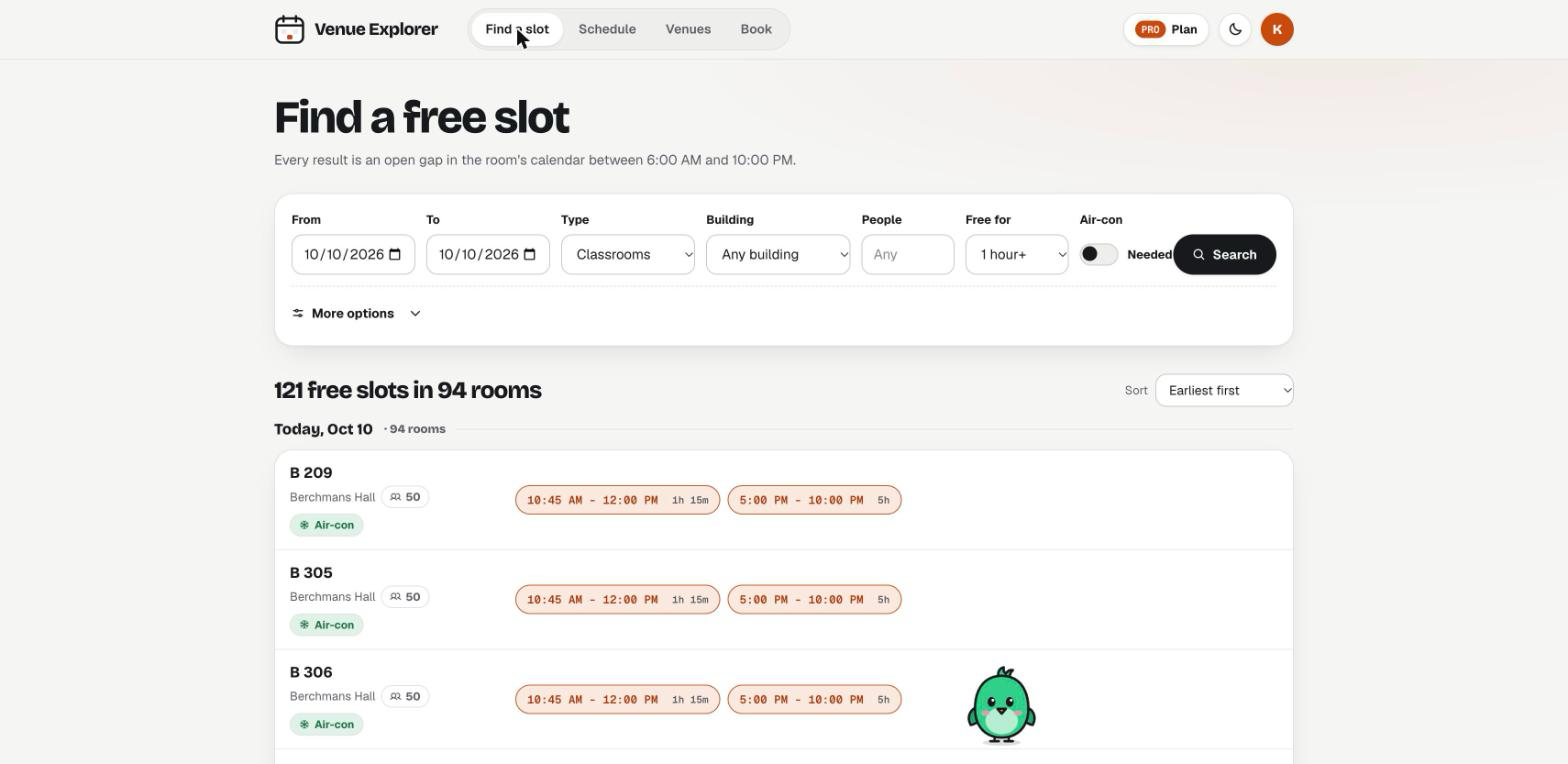
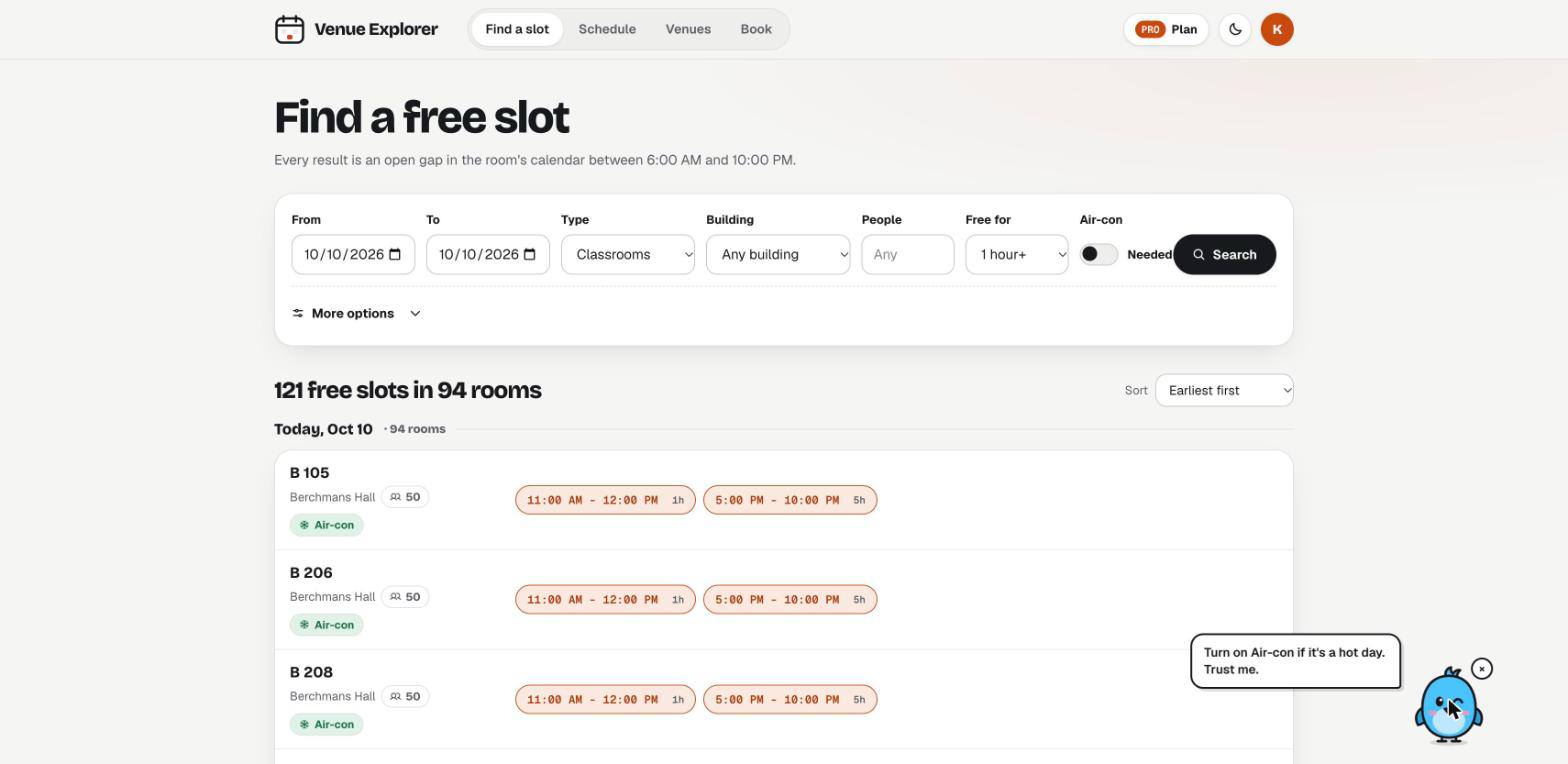
Agi: page tips, random chatter and nine new stunts; fresh README screenshots

diff --git a/apps-script/PortalMascot.html b/apps-script/PortalMascot.html
@@ -83,6 +83,28 @@
   .agi-bob.a-wave .agi-wing-r, .agi-bob.a-wave .agi-wing-l { animation: aWave 260ms ease-in-out 3 alternate; }
   .agi-bob.a-flap .agi-wing-r, .agi-bob.a-flap .agi-wing-l, .agi-bob.a-dance .agi-wing-r, .agi-bob.a-dance .agi-wing-l { animation: aWave 140ms ease-in-out 8 alternate; }
   .agi-bob.a-flap { animation: aFlap 1.1s ease-in-out; }
+  .agi-bob.a-hop3 { animation: aHop3 1.3s var(--ease); }
+  .agi-bob.a-fly { animation: aFly 2.6s ease-in-out; }
+  .agi-bob.a-fall { animation: aFall 1.4s cubic-bezier(.5,0,.75,0) both; }
+  .agi-bob.a-backflip { animation: aBackflip 1s var(--ease); }
+  .agi-bob.a-moonwalk { animation: aMoonwalk 2.2s ease-in-out; }
+  .agi-bob.a-bounce { animation: aBounce 1.6s linear; }
+  .agi-bob.a-peck { animation: aPeck 1.2s ease-in-out; }
+  .agi-bob.a-zoom { animation: aZoom 1.6s ease-in-out; }
+  .agi-bob.a-float { animation: aFloat 3s ease-in-out; }
+  .agi-bob.a-fly .agi-wing-r, .agi-bob.a-fly .agi-wing-l, .agi-bob.a-float .agi-wing-r, .agi-bob.a-float .agi-wing-l,
+  .agi-bob.a-fall .agi-wing-r, .agi-bob.a-fall .agi-wing-l { animation: aWave 110ms ease-in-out 20 alternate; }
+  .agi-bob.a-moonwalk .agi-leg, .agi-bob.a-zoom .agi-leg { animation: aStep 180ms ease-in-out 10 alternate; }
+  @keyframes aStep { from { transform: rotate(-18deg); } to { transform: rotate(18deg); } }
+  @keyframes aHop3 { 0%, 33%, 66%, 100% { transform: none; } 12% { transform: translate(-10px, -16px); } 45% { transform: translate(-20px, -20px) rotate(-6deg); } 78% { transform: translate(-6px, -12px); } 90% { transform: scale(1.08, .92); } }
+  @keyframes aFly { 0% { transform: none; } 15% { transform: translateY(6px) scale(1.06, .9); } 35% { transform: translate(-30px, -110px) rotate(-12deg); } 55% { transform: translate(20px, -140px) rotate(10deg); } 75% { transform: translate(-6px, -60px) rotate(-4deg); } 92% { transform: translateY(0) scale(1.1, .88); } 100% { transform: none; } }
+  @keyframes aFall { 0% { transform: translateY(-240px) rotate(-30deg); opacity: 0; } 8% { opacity: 1; } 60% { transform: translateY(0) rotate(8deg) scale(1.2, .75); } 72% { transform: translateY(-26px) rotate(-6deg); } 84% { transform: translateY(0) scale(1.08, .9); } 100% { transform: none; } }
+  @keyframes aBackflip { 0% { transform: none; } 20% { transform: scale(1.08, .88); } 60% { transform: translateY(-50px) rotate(-360deg); } 82% { transform: translateY(0) rotate(-360deg) scale(1.08, .9); } 100% { transform: rotate(-360deg); } }
+  @keyframes aMoonwalk { 0%, 100% { transform: none; } 45%, 55% { transform: translateX(46px) rotate(-4deg); } }
+  @keyframes aBounce { 0%, 100% { transform: none; } 10%, 40%, 70% { transform: scale(1.12, .86); } 25% { transform: translateY(-34px); } 55% { transform: translateY(-22px); } 85% { transform: translateY(-10px); } }
+  @keyframes aPeck { 0%, 100% { transform: none; } 15%, 45%, 75% { transform: rotate(32deg) translate(6px, 6px); } 30%, 60%, 90% { transform: rotate(4deg); } }
+  @keyframes aZoom { 0%, 100% { transform: none; } 20% { transform: translateX(-60px) skewX(10deg); } 40% { transform: translateX(30px) skewX(-10deg) scaleX(-1); } 60% { transform: translateX(-40px) skewX(8deg); } 80% { transform: translateX(16px) scaleX(-1); } }
+  @keyframes aFloat { 0% { transform: none; } 25% { transform: scale(1.3, 1.25); } 60% { transform: translateY(-120px) scale(1.3, 1.25) rotate(6deg); } 80% { transform: translateY(-40px) scale(1.05) rotate(-4deg); } 100% { transform: none; } }
   @keyframes aPop { 0% { transform: translateY(30px) scale(0.6); opacity: 0; } 60% { transform: translateY(-6px) scale(1.06); opacity: 1; } 100% { transform: none; } }
   @keyframes aHop { 40% { transform: translateY(-12px); } 100% { transform: none; } }
   @keyframes aSquish { 40% { transform: scale(1.1, 0.86); } 100% { transform: none; } }
@@ -204,7 +226,49 @@ window.Agi = (function () {
     [0.8, function () { act('squint', 'sneeze', 'puff', null, maybe(['Achoo! Dusty calendars.'])); }],
     [0.8, function () { act('normal', 'peek', null, null, null, 1700); }],
     [0.8, function () { act('normal', 'shiver', null, 'teal', maybe(['Brr, the aircon in here.'])); }],
+    // The nine bigger stunts.
+    [1.2, function () { act('happy', 'hop3', null, null, maybe(['Hop, hop, hop!', 'Leg day.'])); }],
+    [1, function () { act('wow', 'fly', null, 'sky', maybe(['Wheee, I can see all of HE from up here!', 'Flight test number 47.']), 2600); }],
+    [0.8, function () { act('x', 'fall', 'stars', null, maybe(['Who moved the ceiling?', 'Gravity: 1, Agi: 0.']), 2400); }],
+    [0.9, function () { act('wink', 'backflip', 'sparkles', null, maybe(['Ten out of ten. Judges?', 'Nailed it.'])); }],
+    [0.9, function () { act('wink', 'moonwalk', 'notes', 'grape', maybe(['Smooth.', 'Hee-hee!']), 2200); }],
+    [1, function () { act('happy', 'bounce', null, 'lemon', maybe(['Boing boing boing.'])); }],
+    [1, function () { act('squint', 'peck', null, 'sand', maybe(['Found a crumb.', 'Peck peck. Floor tastes like Monday.'])); }],
+    [0.8, function () { act('wow', 'zoom', 'puff', 'coral', maybe(['ZOOMIES!', 'Too much coffee.'])); }],
+    [0.7, function () { act('love', 'float', 'hearts', 'pink', maybe(['I\'m a balloon now.', 'Floaaating…']), 3000); }],
+    // Talking: a tip for this page, or a random thought.
+    [2.5, function () { act('normal', 'nod', null, null, pageTip()); }],
+    [2, function () { act(pick(['happy', 'wink', 'normal']), 'tilt', null, null, chatter()); }],
   ];
+  var route = (location.hash || '').replace(/^#\/?/, '').split(/[?\/]/)[0];
+  var PAGE_TIPS = {
+    '': ['The "Free right now" list updates every time you open this page.', 'Tap a room on the right to see its schedule.',
+      'Pro is free. Ask for a key on the Plan page.', 'Two minutes is all a booking takes once your org is saved.'],
+    find: ['Open "More options" to search an exact window, like 1 to 3 PM.', 'Set "People" so tiny rooms drop out of the list.',
+      'Sort by longest gap if your event runs long.', 'Click a free time to carry it straight into Book.', 'Pro can search 14 days at once.',
+      'Turn on Air-con if it\'s a hot day. Trust me.'],
+    schedule: ['Grey blocks are bookings. The gaps between are yours.', 'A long event shows once per day, not once per hour.',
+      'Pick a date range to see a room\'s whole week.', 'Click a gap to book that exact time.'],
+    venues: ['Use the chips to filter by venue type.', 'Search works on equipment too. Try "mic" or "projector".',
+      '"Specs not on file" means CFMO hasn\'t listed the room\'s details.', 'Each card has Schedule and Book shortcuts.'],
+    book: ['CFMO wants requests 3 working days ahead. Earlier is safer.', 'The form opens 9 to 11 AM and 2 to 4 PM on weekdays.',
+      'Only the first 60 requests a day get in. Be quick at 9!', 'Save the link the night before, then open it right at 9 AM.',
+      'Write N/A if there are no group activities.', 'Your proof of approval link must be shared so CFMO can open it.',
+      'If the form shows old answers, press Clear form at the bottom.', 'Answer the Conforme question yourself at the end.'],
+    access: ['Your key only works with your own account.', 'Pro keys are emailed once they\'re approved.', 'Lost your key? Report an issue and I\'ll pass it on.'],
+    report: ['Screenshots help. Paste a Drive link in your message.', 'Turn on technical details if something broke.'],
+  };
+  var CHATTER = ['Did you know HE has 152 bookable rooms? I\'ve napped in most.', 'I tried booking a room for myself. CFMO said no.',
+    'Fun fact: I\'m powered by spreadsheets.', 'If a room is free, it\'s free. That\'s my whole philosophy.', 'Remember to drink water.',
+    'You\'re doing great. Probably.', 'Is it lunch yet?', 'I counted the chairs in CTC 205. Lost count at 4.',
+    'Somewhere, a projector isn\'t working. Not my fault.', 'Every room has a story. Most are about org GAs.',
+    'Don\'t forget your approver\'s name!', 'Psst. You can drag me around.', 'Rub my head. Go on.', 'Plan early, book early, sleep well.'];
+  function pageTip() { var list = PAGE_TIPS[route] || PAGE_TIPS['']; return pick(list); }
+  function chatter() {
+    var h = new Date().getHours();
+    var timed = h < 9 ? ['Early bird! The form opens at 9.'] : h >= 22 ? ['It\'s late. Rooms close at 10 PM anyway.'] : h >= 12 && h < 13 ? ['Lunch break? Rooms are quieter now.'] : [];
+    return pick(CHATTER.concat(timed));
+  }
   var TIPS = [
     'Click a time in the results to start a booking.',
     'Schedules show the free gaps between bookings in blue.',
@@ -376,6 +440,7 @@ window.Agi = (function () {
     if (wrap.hidden) return;
     var r = REACTIONS[type];
     if (!r) return;
+    if (type === 'nav') route = (options && options.route) || '';
     var now = Date.now();
     if (r[4] < lastPriority && now - lastAt < 700) return;
     options = options || {};
@@ -485,7 +550,7 @@ window.Agi = (function () {
         lastAt = Date.now(); lastPriority = 0;
       }
       scheduleAntic();
-    }, 9000 + Math.random() * 11000);
+    }, 7000 + Math.random() * 9000);
   }
 
   // Blink every few seconds while the face is relaxed.
@@ -569,7 +634,7 @@ window.Agi = (function () {
     clicks = clicks.filter(function (t) { return now - t < 1400; });
     clicks.push(now);
     if (clicks.length >= 4) { clicks = []; react('dizzy'); return; }
-    react('poke', pick(TIPS));
+    react('poke', Math.random() < 0.65 ? pageTip() : pick(TIPS.concat(CHATTER)));
   });
   function startDrag() {
     if (walking) stopWalking();

diff --git a/README.md b/README.md
@@ -14,6 +14,8 @@ A Google Apps Script web app that reads the CFMO venue calendars for all 152 HE 
 
 <img src="docs/screenshots/home.png" alt="Venue Explorer home page with the Free right now panel" width="900">
 
+<img src="docs/screenshots/features.png" alt="Home page feature showcase with an animated free-slot scene" width="900">
+
 </div>
 
 ---
@@ -43,7 +45,7 @@ Booking a room used to mean opening CFMO calendars one at a time, writing down t
 </tr>
 </table>
 
-It works on phones, has a dark mode, and comes with a small pet mascot that naps, wanders around and gets dizzy if you spin it.
+It works on phones, has a dark mode, and comes with Agi, a small pet bird that gives tips for whatever page you're on, chats, naps, and does stunts on its own: hops, flights, falls, backflips, moonwalks and more.
 
 
 ## Plans
